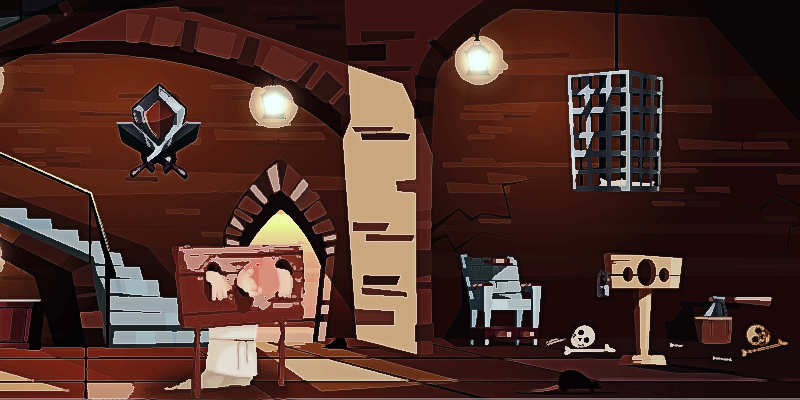
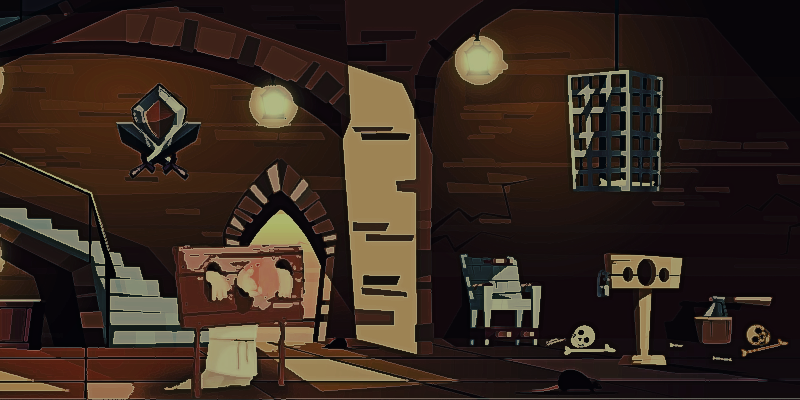
New home scene background

diff --git a/src/utils/clickables/buttons.py b/src/utils/clickables/buttons.py
@@ -13,11 +13,11 @@ class Button(Clickables):
     def __init__(self, x, y, text, type_tag):
         super().__init__(x, y, text, type_tag)
 
-        if type_tag in ["caption_btn", "exit_scene", "dice_cup"]:
+        if type_tag in ["caption_btn", "exit", "dice_cup"]:
             self.has_hover = True
             # In order for the hover effect to work, the new button
             # must be added to the 'buttons_in_scene' dictionary
-            # in the 'scenes.py' file
+            # in the 'states.py' file in scenes package
 
         # Long button with text (e.g. "Play Game")
         if type_tag == "caption_btn":
@@ -28,16 +28,16 @@ class Button(Clickables):
             self.text_surface = self.font.render(text, True, (255, 255, 255))
 
         # Door at the right top corner
-        elif type_tag == "exit_scene":
-            self.default_image = load_image(
-                BUTTONS_PATH + "exit_scene_default_image.png"
-            )
-            self.hover_image = load_image(BUTTONS_PATH + "exit_scene_hover_image.png")
+        elif type_tag == "exit":
+            self.default_image = load_image(BUTTONS_PATH + "exit_default_btn.png")
+            self.hover_image = load_image(BUTTONS_PATH + "exit_hover_btn.png")
             self.click_sound = load_sound(SOUND_EFFECTS_PATH + "exit_scene_click.mp3")
+
+        # TODO: Add white exit button (in tavern it doesn't appear)
 
         # Box that leads to scenes or has some action (in settings)
         elif type_tag == "default":
-            self.default_image = load_image(BUTTONS_PATH + "default.png")
+            self.default_image = load_image(BUTTONS_PATH + "default_btn.png")
             self.click_sound = load_sound(SOUND_EFFECTS_PATH + "default_click.mp3")
 
         # Engine at the left top corner

diff --git a/src/scenes/tavern/tavern_scene.py b/src/scenes/tavern/tavern_scene.py
@@ -1,19 +1,16 @@
 import pygame
 from typing import Optional, Callable
 
-from .dice import Dice
 from scenes.states import GameScenes
+from .dice import Dice
+from .render_minigame import render_minigame
 from utils.container import render_container
 from utils.pygame_loads import load_image
 from backgrounds import TAVEN_BACKGROUND
 from utils.declared_buttons import (
     ROLL_DICE,
-    DICE_CUP,
     EXIT_SCENE,
 )
-
-die: Dice = Dice()
-die_face = None
 
 
 def render_tavern(
@@ -29,18 +26,14 @@ def render_tavern(
 
     ROLL_DICE.draw_screen(display_surface)
     if ROLL_DICE.update_scene(mouse_event, trigger_update):
-        global die_face
-        dice_path = die.roll()
-        die_face = load_image(dice_path)
+        Dice.minigame_active = True
 
-    # Hide DICE_CUP button and only reveal it when ROLL_DICE is clicked
-    DICE_CUP.draw_screen(display_surface)
-    if DICE_CUP.update_scene(mouse_event, trigger_update):
-        pass
+    if Dice.minigame_active:
+        render_minigame(display_surface, mouse_event, trigger_update)
 
-    # Keep drawing the dice face after it has been rolled
-    if die_face:
-        display_surface.blit(die_face, (100, 50))
+    # Keep the dice face on screen after it has been rolled
+    if Dice.die_face:
+        display_surface.blit(Dice.die_face, (100, 50))
 
     # Goes back to town if exit button is clicked
     EXIT_SCENE.draw_screen(display_surface)

diff --git a/src/backgrounds.py b/src/backgrounds.py
@@ -11,4 +11,9 @@ TOWN_BACKGROUND = r"D:\Projects\Python-studies\shop_shop_manager\images\backgrou
 # Scenes Backgrounds
 SHOP_BACKGROUND = r"D:\Projects\Python-studies\shop_shop_manager\images\backgrounds\shop_background.png"
 TAVEN_BACKGROUND = r"D:\Projects\Python-studies\shop_shop_manager\images\backgrounds\tavern_background.png"
-HOME_BACKGROUND = r"D:\Projects\Python-studies\shop_shop_manager\images\backgrounds\home_background.png"
+HOME_DAYLIGHT = (
+    r"D:\Projects\Python-studies\shop_shop_manager\images\backgrounds\home_daylight.png"
+)
+HOME_NIGHT = (
+    r"D:\Projects\Python-studies\shop_shop_manager\images\backgrounds\home_night.png"
+)

diff --git a/src/scenes/home/home_scene.py b/src/scenes/home/home_scene.py
@@ -4,7 +4,7 @@ from typing import Optional, Callable
 from scenes.states import GameScenes
 from utils.pygame_loads import load_image
 from utils.declared_buttons import EXIT_SCENE
-from backgrounds import HOME_BACKGROUND
+from backgrounds import HOME_DAYLIGHT
 
 
 def render_home(
@@ -13,7 +13,7 @@ def render_home(
     trigger_update: Optional[Callable] = None,
 ):
 
-    display_surface.blit(load_image(HOME_BACKGROUND), (0, 0))
+    display_surface.blit(load_image(HOME_DAYLIGHT), (0, 0))
 
     # Give n quantity of energy based on the housing level
     # Player had to collect each turn (day) to get the energy

diff --git a/src/turns/day_turner.py b/src/turns/day_turner.py
@@ -1,25 +1,11 @@
-from scenes.tavern.tavern_scene import die_face
-
-
 class Days:
     max_days: int = 30
     current_day: int = 1
 
 
 def handle_days(turn_day: bool):
-    global die_face
     if turn_day:
-        print(die_face)
-
-        # This doesn't work - How can I get rid of the global die_face?
-        if die_face is not None:
-            del die_face
-
         Days.current_day += 1
-        print(die_face)
 
     if Days.current_day == Days.max_days:
         print("Max days reached - game won or lost.")
-
-
-# I'm making a day (turns) file for my pygame. What am I missing?

diff --git a/src/scenes/tavern/render_minigame.py b/src/scenes/tavern/render_minigame.py
@@ -1,0 +1,18 @@
+import pygame
+
+from .dice import Dice
+from utils.pygame_loads import load_image
+from utils.declared_buttons import DICE_CUP
+
+die: Dice = Dice()
+
+
+def render_minigame(
+    display_surface, mouse_event, trigger_update=None
+) -> pygame.Surface:
+    DICE_CUP.draw_screen(display_surface)
+    if DICE_CUP.update_scene(mouse_event, trigger_update):
+        dice_path = die.roll()
+        Dice.die_face = load_image(dice_path)
+
+        return Dice.die_face

diff --git a/src/scenes/__init__.py b/src/scenes/__init__.py
@@ -5,5 +5,6 @@ from .shop.display_customer import display_customer
 from .home.home_scene import render_home
 from .market_board import render_table
 from .tavern.tavern_scene import render_tavern
+from .tavern.render_minigame import render_minigame
 from .settings.settings_scene import render_settings
 from .settings.sound_controller import SoundController

diff --git a/src/scenes/inventory_scene.py b/src/scenes/inventory_scene.py
@@ -21,5 +21,4 @@ def render_inventory(
     # Goes back to town if exit button is clicked
     EXIT_SCENE.draw_screen(display_surface)
     if EXIT_SCENE.update_scene(mouse_event, trigger_update):
-        handle_days(True)
         GameScenes.in_town, GameScenes.in_inventory = True, False

diff --git a/src/scenes/tavern/dice.py b/src/scenes/tavern/dice.py
@@ -6,6 +6,9 @@ DICE_IMG_PATH = "D:/Projects/Python-studies/shop_shop_manager/images/ui/dice/"
 
 
 class Dice:
+    die_face = None
+    minigame_active = False
+
     # The cup with the dice is in Button class
     def __init__(self, n=1):
         self.dice_images = {

diff --git a/src/utils/declared_buttons.py b/src/utils/declared_buttons.py
@@ -1,7 +1,7 @@
 from .clickables.buttons import Button
 
 # Regular Buttons
-EXIT_SCENE = Button(740, 4, text=None, type_tag="exit_scene")
+EXIT_SCENE = Button(740, 4, text=None, type_tag="exit")
 NEXT_BUTTON = Button(327, 309, text=None, type_tag="default")
 
 

diff --git a/src/scenes/tavern/__init__.py b/src/scenes/tavern/__init__.py
@@ -1,1 +1,2 @@
 from .tavern_scene import render_tavern
+from .render_minigame import render_minigame

diff --git a/assets/credits.md b/assets/credits.md
@@ -38,4 +38,5 @@ It is challenging to credit all authors accurately since some of the content use
 - Sawetny
 - Vectorpouch
 - November1711
+- Upklyak
 - Unknown authors
